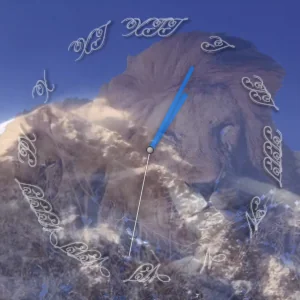
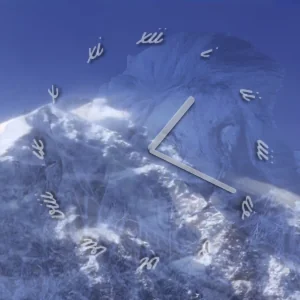
z

diff --git a/src/pages/2026/26-08/26-08-08/Clock.module.css b/src/pages/2026/26-08/26-08-08/Clock.module.css
@@ -25,7 +25,9 @@
   width: 100%;
   height: 100%;
   object-fit: cover;
-  opacity: 0.3;
+  opacity: 0.2;
+  /* Apply a filter to re-color the brown lion image to blue. */
+  filter: sepia(100%) hue-rotate(180deg) saturate(200%);
   z-index: 0;
 }
 
@@ -63,8 +65,9 @@
 .hourHand {
   width: 6px;
   height: 25%; /* Relative to clock size */
-  /* Ultra-shiny chrome: sharp, narrow highlight and darker edges */
-  background-color: #007bff; /* A vibrant blue color */
+  /* Match the visual style of the numbers */
+  background-color: #c0c0c0; /* A neutral silver/grey base */
+  box-shadow: -1px -1px 1px rgba(255, 255, 255, 0.8), 1px 1px 3px rgba(0, 0, 0, 1);
   z-index: 3;
   /* No transition: hands are driven by ~60 FPS JS updates for smooth forward movement */
 }
@@ -72,47 +75,28 @@
 .minuteHand {
   width: 4px;
   height: 35%; /* Relative to clock size */
-  /* Ultra-shiny chrome: sharp, narrow highlight and darker edges */
-  background-color: #007bff; /* A vibrant blue color */
+  /* Match the visual style of the numbers */
+  background-color: #c0c0c0; /* A neutral silver/grey base */
+  box-shadow: -1px -1px 1px rgba(255, 255, 255, 0.8), 1px 1px 3px rgba(0, 0, 0, 1);
   z-index: 4;
-}
-
-.secondHand {
-  width: 2px;
-  height: 40%; /* Relative to clock size */
-  /* Polished steel look for the second hand */
-  background: linear-gradient(to right, #555, #fff, #555);
-  z-index: 5;
-  box-shadow: 0 0 5px rgba(0, 0, 0, 0.5); /* Changed from red to a neutral shadow */
 }
 
 .centerDot {
   position: absolute;
   top: 50%;
   left: 50%;
-  transform: translate(-50%, -50%);
-  width: 6px;
-  height: 6px;
-  /* High-contrast radial gradient for a ball-bearing look */
-  background: radial-gradient(circle at 30% 30%, #fff 0%, #f0f0f0 20%, #777 90%, #333 100%);
-  border-radius: 50%;
-  z-index: 6;
-  border: 1px solid #222;
+  display: none; /* Hide the center dot */
 }
 
 .number {
   position: absolute;
   top: 50%;
   left: 50%;
-  /* Use CSS variable for dynamic rotation, keeping other transforms in CSS */
   transform: translate(-50%, -50%) rotate(var(--angle)) translate(0, -40vmin);
-  /* More dramatic beveled chrome effect for digits */
-  background: linear-gradient(180deg, #fff 0%, #e8e8e8 35%, #777 49%, #222 51%, #999 65%, #fff 100%);
-  background-clip: text;
-  -webkit-background-clip: text;
+ 
   color: transparent;
   font-family: 'ClockFont_26_08_08', sans-serif;
-  font-size: 8vmin;
+  font-size: 19vh;
   /* 1920s style embossed shadow */
   text-shadow: -1px -1px 1px rgba(255, 255, 255, 0.8), 1px 1px 3px rgba(0, 0, 0, 1);
   z-index: 2;

diff --git a/src/pages/2026/26-08/26-08-08/Clock.tsx b/src/pages/2026/26-08/26-08-08/Clock.tsx
@@ -28,18 +28,6 @@ const fontConfigs: FontConfig[] = [
 
 // Roman numerals for the clock face
 const ROMAN_NUMERALS = [
-  'I',
-  'II',
-  'III',
-  'IV',
-  'V',
-  'VI',
-  'VII',
-  'VIII',
-  'IX',
-  'X',
-  'XI',
-  'XII',
   'i',
   'ii',
   'iii',
@@ -65,7 +53,7 @@ const ClockComponent: React.FC = () => {
 
   // Calculate angles for analog clock hands
   // Use the shared hook for angle calculations for consistency and maintainability.
-  const { hourAngle, minAngle: minuteAngle, secAngle: secondAngle } = useClockAngles(time);
+  const { hourAngle, minAngle: minuteAngle } = useClockAngles(time);
 
   // Accessible standard ISO/time display for assistive tech
   const timeString = `${String(time.getHours()).padStart(2, '0')}:${String(time.getMinutes()).padStart(2, '0')}:${String(time.getSeconds()).padStart(2, '0')}`;
@@ -103,10 +91,6 @@ const ClockComponent: React.FC = () => {
           <div
             className={`${styles.hand} ${styles.minuteHand}`}
             style={{ transform: `translateX(-50%) rotate(${minuteAngle}deg)` }}
-          />
-          <div
-            className={`${styles.hand} ${styles.secondHand}`}
-            style={{ transform: `translateX(-50%) rotate(${secondAngle}deg)` }}
           />
           {/* Render numbers 1-12 on the clock face */}
           {Array.from({ length: 12 }, (_, i) => {
